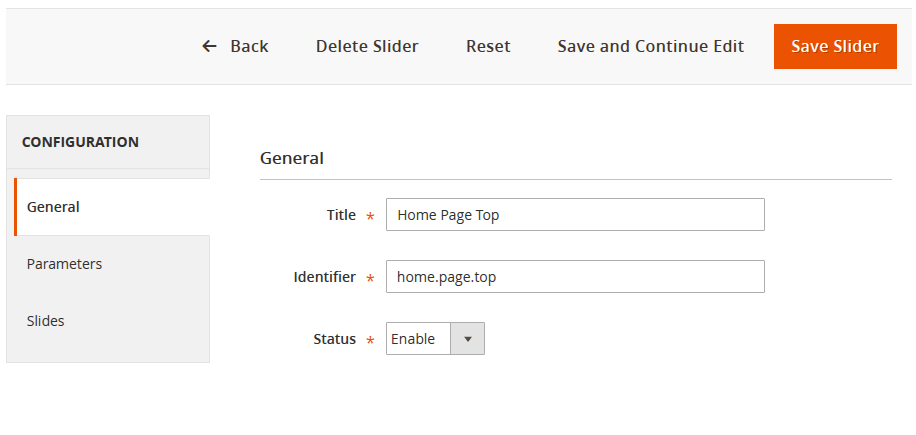
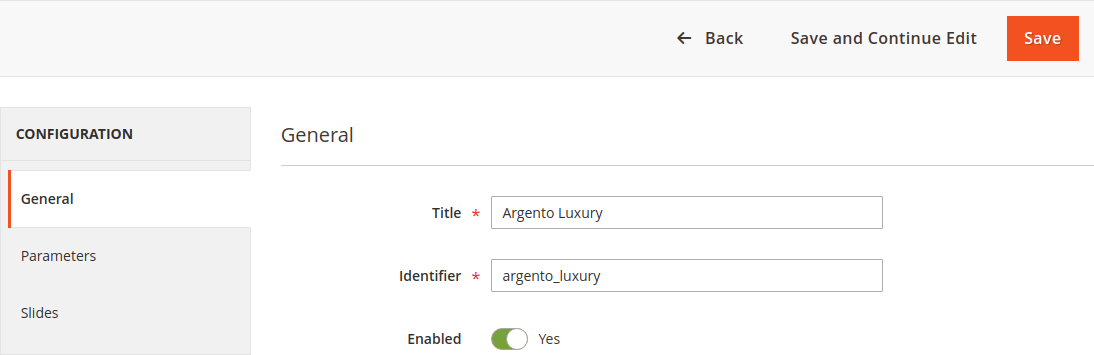
EasySlide M2 - chnagelog and overall update.

diff --git a/m2/extensions/easyslider/interfaces.md b/m2/extensions/easyslider/interfaces.md
@@ -20,35 +20,41 @@ In order to edit slider or create new one, go Magento Admin > Swissup > General 
 
 After clicking on any slider from the submitted list, you will be able to edit the settings of Slider information.
 
-##### General configuration
+#### General configuration
 
 ![General](/images/m2/easyslide/SliderAdminGeneral.png)
 
- * Title - slider name
- * Identifier - unique slider name
- * Status - enables or disables current slider
+ -  **Title** - slider name
+ -  **Identifier** - unique slider name
+ -  **Enabled** - enables or disables current slider
 
-##### Slider Parameters
+#### Slider Parameters
 
 ![Content](/images/m2/easyslide/SliderAdminParams.png)
 
-  * Theme - Could be 'Default', 'White' or 'Black'.
-  * Direction - Could be 'horizontal' or 'vertical' (for vertical slider).
-  * Effect - slider effects list.
-  * Speed - Duration of transition between slides (in ms).
-  * Autoplay - Delay between transitions (in ms). If this parameter is not specified, auto play will be disabled
-  * Pagination - show slider pagination
-  * Navigation Buttons - select Yes to display arrows of next and previous navigation.
-  * Scrollbar - enabled slider scrollbar
-  * Scrollbar Hide - Hide scrollbar automatically after user interaction
-  * Start with random slide - Ability to start slider from random slide. (First
-    slide is used by default)
+ -  **Theme** - Could be 'Default', 'White' or 'Black'.
+ -  **Effect** - slider effects list.
+ -  **Speed** - Duration of transition between slides (in ms).
+ -  **Autoplay** - Delay between transitions (in ms). If this parameter is not specified, auto play will be disabled.
+ -  **Pagination** - show slider pagination.
+ -  **Navigation Buttons** - select Yes to display arrows of next and previous navigation.
+ -  **Scrollbar** - enabled slider scrollbar.
+ -  **Start with random slide** - Ability to start slider from random slide. (First slide is used by default).
+ -  **Space Between Slides** - name is pretty self-explained. Value is in pixels.
 
-##### Slides
+#### Slides
 
 ![Content](/images/m2/easyslide/SliderAdminSlides.png)
 
-#### See also:
+When you click on slide you can add its title. Add some descrition.
+
+Additional options:
+
+ -  **Lazy loading of images** - browser will load slider images "lazy". Only when slide is visible. It speeds up page rendering and can improve pagespeed score.
+ -  **Load images in closest slides also** - loads next and previous slides for currebt slide. This option depends on *"Lazy loading of images"*. If lazy loading is disabled then this option is hidden.
+ -  **Use responsive images** - forces slide images to use `srcset` attribute. This option can increase PageSpeed score when properly configured. Read more about [Reasponsive Images](https://developer.mozilla.org/en-US/docs/Learn/HTML/Multimedia_and_embedding/Responsive_images).
+
+### See also:
 
 * [Installation](../installation/)
 * [Use cases](../cases/)

diff --git a/m2/extensions/easyslider/changelog.md b/m2/extensions/easyslider/changelog.md
@@ -8,6 +8,14 @@ category: Easy Slider
 
 # Changelog
 
+### Version 1.5.0
+
+> Sep 12, 2019
+
+ -  New highly demanded features - lazy load and responsive images for slides. Properly configured they can increase pagespeed score on pages where slides are added.
+ -  Updated slider JS library (swiper) for better performance.
+ -  Reworked admin interfaces. Build according latest Magento 2 trends (UI components).
+
 ### Version 1.4.0
 
 > Aug 19, 2019
